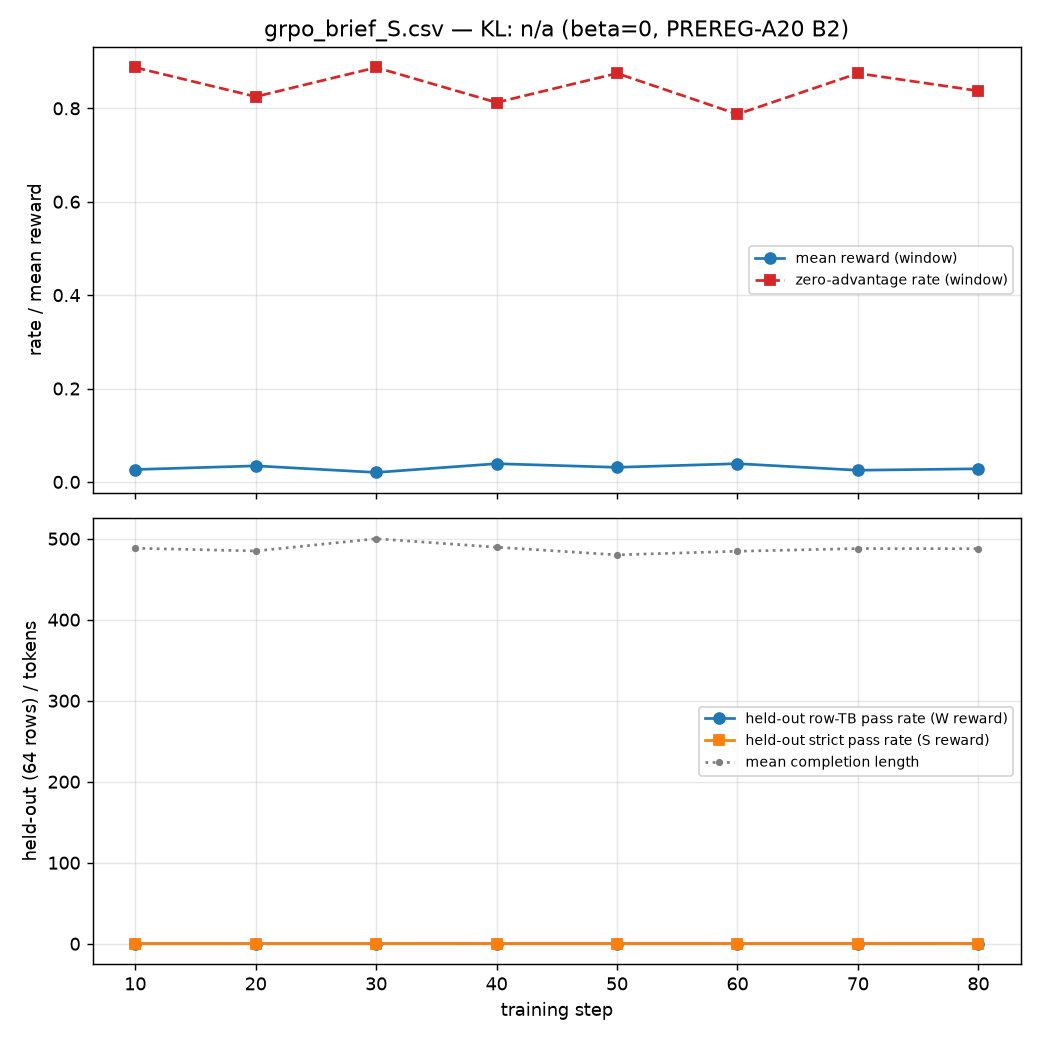
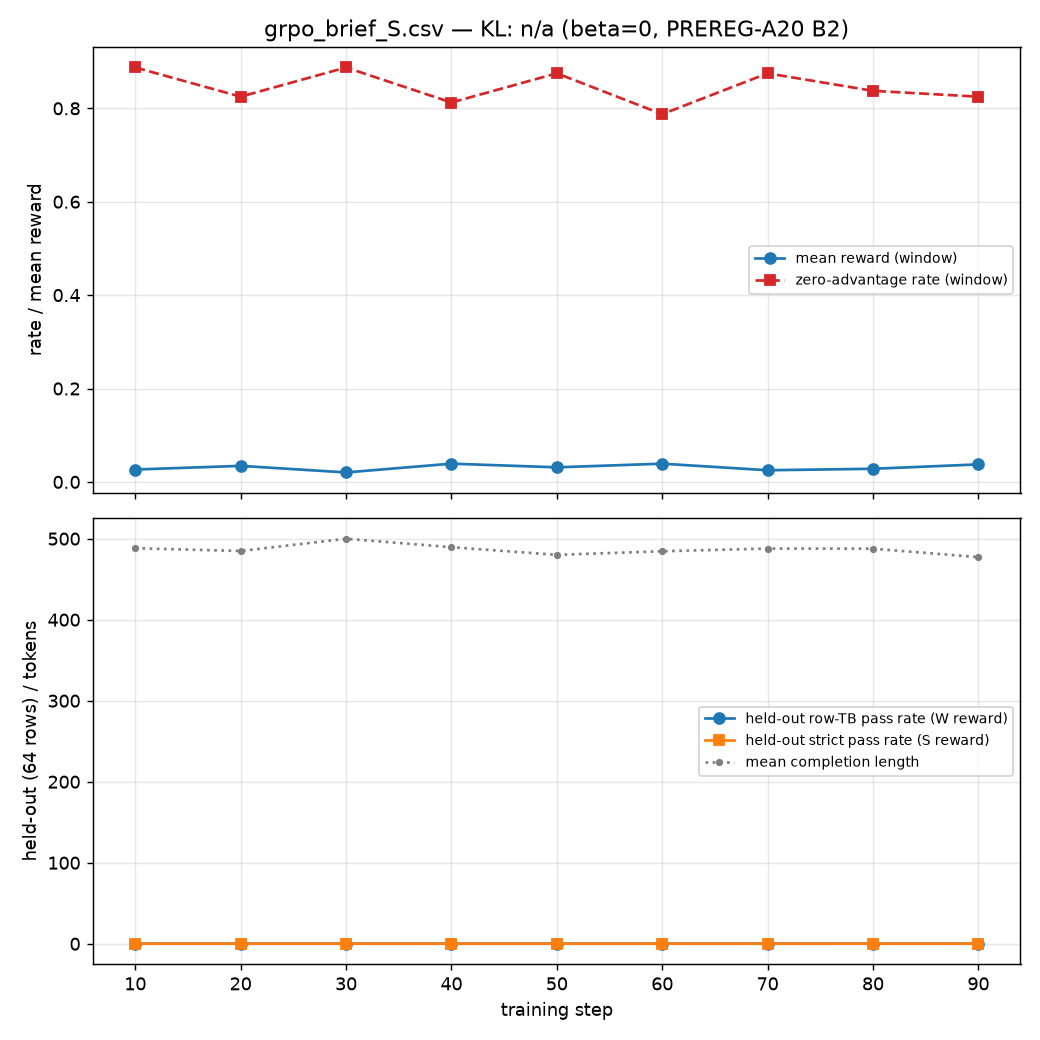
A20 grpo_brief_S: 10-step log #9 (CSV+plot)

diff --git a/notes/LOG.md b/notes/LOG.md
@@ -1649,3 +1649,6 @@ a20/keepawake.sh is operator-requested housekeeping, not part of the PREREG-A20 
 pipeline; no pinned file changed.
 - 2026-10-21 18:15 — [a20] grpo_brief_W: finished rc=0 in 3.28 h
 - 2026-10-21 18:16 — [a20] grpo_brief_S: starting (steps=100 lr=1e-06 resume=none)
+- 2026-10-21 20:59 — [a20] heartbeat ots upgrade PREREG.md.ots: Success! Timestamp complete
+- 2026-10-21 20:59 — [a20] heartbeat ots upgrade PREREG-A19.md.ots: Success! Timestamp complete
+- 2026-10-21 20:59 — [a20] heartbeat ots upgrade PREREG-A20.md.ots: Success! Timestamp complete
